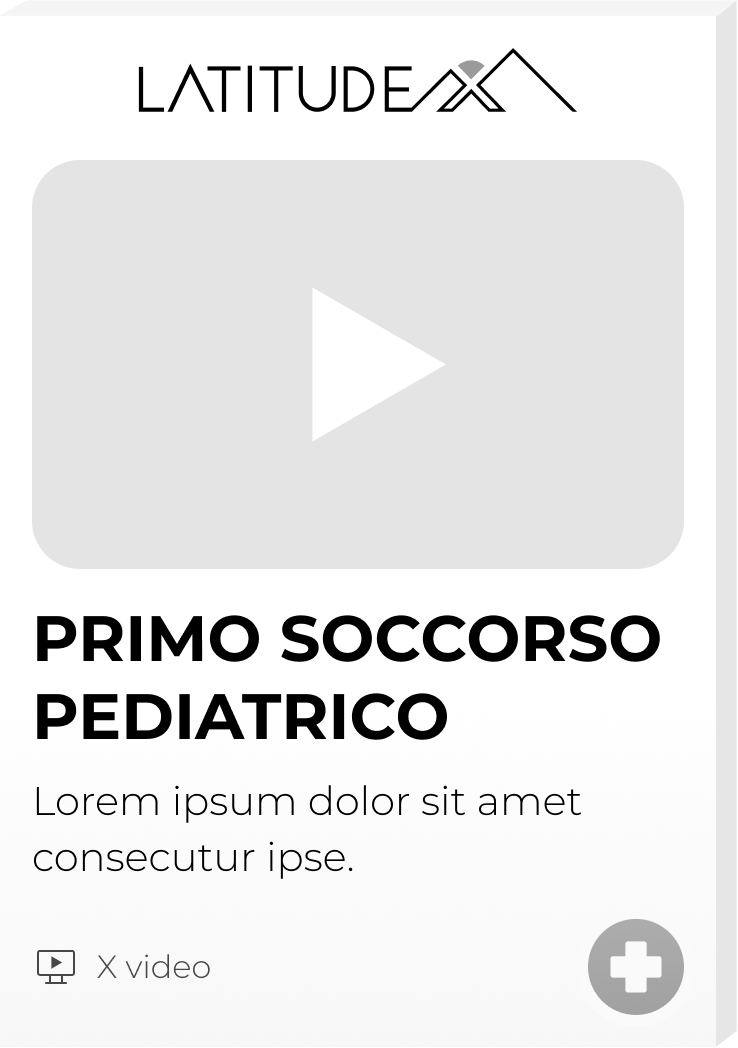
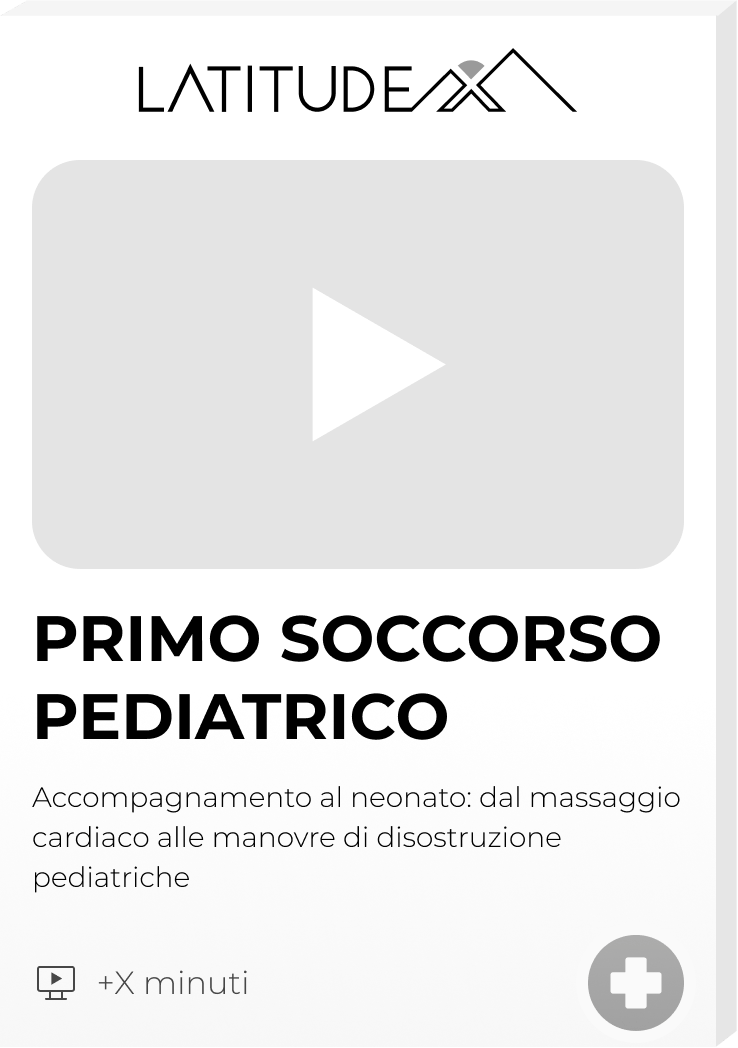
text updates

Changed region(s): [[0.0312, 0.7328, 0.9038, 0.855], [0.7791, 0.855, 0.935, 1.0], [0.0312, 0.916, 0.3428, 0.9466]]

diff --git a/app.config.ts b/app.config.ts
@@ -54,18 +54,10 @@ export default defineAppConfig({
     },
   ],
   corsiInPresenza: [
+
     {
       title: "Corso Addetti Primo Soccorso per Aziende",
-      description: "Lorem ipsum dolor sit amet, consectetur adipiscing elit, sed do eiusmod tempor incididunt ut labore et dolore magna aliqua.",
-      data: {
-        durata: "16 ore",
-        data: "Da definire",
-        destinatari: "Gruppo A"
-      }
-    },
-    {
-      title: "Corso Addetti Primo Soccorso per Aziende",
-      description: "Lorem ipsum dolor sit amet, consectetur adipiscing elit, sed do eiusmod tempor incididunt ut labore et dolore magna aliqua.",
+      description: "Primo Soccorso Aziendale secondo Decreto Ministeriale 388/03, rivolto alle aziende rientranti nei Gruppi B e C.",
       data: {
         durata: "12 ore",
         data: "Da definire",
@@ -73,17 +65,26 @@ export default defineAppConfig({
       }
     },
     {
-      title: "Corso BLSD Retraining  per Addetti Utilizzo Defibrillatore (DAE)",
-      description: "Lorem ipsum dolor sit amet, consectetur adipiscing elit, sed do eiusmod tempor incididunt ut labore et dolore magna aliqua.",
+      title: "Corso Addetti Primo Soccorso per Aziende",
+      description: "Primo Soccorso Aziendale secondo Decreto Ministeriale 388/03, rivolto alle aziende rientranti nel Gruppo A.",
       data: {
         durata: "16 ore",
+        data: "Da definire",
+        destinatari: "Gruppo A"
+      }
+    },
+    {
+      title: "Corso BLSD Retraining per Addetti Utilizzo Defibrillatore (DAE)",
+      description: "Il corso BLSD (Basic Life Support & Defibrillation) è un corso certificativo finalizzato all’addestramento dei partecipanti alla rianimazione cardiopolmonare e utilizzo del Defibrillatore Automatico Esterno.",
+      data: {
+        durata: "4 ore",
         data: "Da definire",
         destinatari: "Per tuttti"
       }
     },
     {
       title: "Corso Aggiornamento Primo Soccorso",
-      description: "Lorem ipsum dolor sit amet, consectetur adipiscing elit, sed do eiusmod tempor incididunt ut labore et dolore magna aliqua.",
+      description: "Primo Soccorso Aziendale secondo Decreto Ministeriale 388/03, rivolto alle aziende rientranti nel Gruppo A.",
       data: {
         durata: "6 ore",
         data: "Da definire",
@@ -92,9 +93,9 @@ export default defineAppConfig({
     },
     {
       title: "Corso Aggiornamento Primo Soccorso",
-      description: "Lorem ipsum dolor sit amet, consectetur adipiscing elit, sed do eiusmod tempor incididunt ut labore et dolore magna aliqua.",
+      description: "Primo Soccorso Aziendale secondo Decreto Ministeriale 388/03, rivolto alle aziende rientranti nei Gruppi B e C.",
       data: {
-        durata: "6 ore",
+        durata: "4 ore",
         data: "Da definire",
         destinatari: "Gruppo B e C"
       }
@@ -105,11 +106,12 @@ export default defineAppConfig({
       picture: "/giulia-gabani.jpg",
       fullName: "Giulia Gabani",
       points: [
-        "Medico Chirurgo abilitato. Laureata con il massimo dei voti presso l’Università degli Studi di Padova",
-        "Docente titolare dei corsi di formazione e aggiornamento di Primo Soccorso aziendale e gestione delle emergenze sanitarie",
-        "Discipline praticate: trekking, biking, arrampicata sportiva, alpinismo su roccia, canyoning e sci di fondo",
-        "Istruttrice BLSD e Soccorritrice in ambulanza per la Croce Rossa Italiana - SUEM 118",
-        "Content creator e video maker per passione ed esperienza.",
+        "Medico Chirurgo abilitato",
+        "Formazione specifica in Medicina Generale",
+        "Docente titolare dei corsi di formazione e aggiornamento di Primo Soccorso aziendale",
+        "Formatrice in ambito di approccio e gestione delle emergenze sanitarie",
+        "Istruttrice BLS-D qualificata",
+        "Soccorritrice in ambulanza per la Croce Rossa Italiana - SUEM 118",
       ],
       bio: "Lorem ipsum dolor sit amet, consectetur adipiscing elit, sed do eiusmod tempor incididunt ut labore et dolore magna aliqua. Ut enim ad minim veniam, quis nostrud exercitation ullamco laboris nisi ut aliquip ex ea commodo consequat. Duis aute irure dolor in reprehenderit in voluptate velit esse cillum dolore eu fugiat nulla pariatur. Excepteur sint occaecat cupidatat non proident, sunt in culpa qui officia deserunt mollit anim id est laborum."
     },
@@ -117,23 +119,22 @@ export default defineAppConfig({
       picture: "/francesco-maria-sauro.jpg",
       fullName: "Francesco Maria Sauro",
       points: [
-        "Logistic Coordinator and Managing Director per Miles Beyond.",
-        "Logistic Coordinator corsi CAVES e PANGAEA dell'Agenzia Spaziale Europea",
-        "Operatore del CNSAS (Corpo Nazionale del Soccorso Alpino e Speleologico)",
-        "Guida associata AssoGuide e Skipper",
-        "Istruttore BLSD e Soccorritore in ambulanza per la Croce Rossa Italiana - SUEM 118.",
-    ],
+        "Operatore del Soccorso Alpino e Speleologico del Veneto (CNSAS)",
+        "Co-docente tecnico dei corsi di formazione di Primo Soccorso aziendale",
+        "Istruttore BLS-D qualificato",
+        "Soccorritore in ambulanza per la Croce Rossa Italiana - SUEM 118",
+      ],
       bio: "Lorem ipsum dolor sit amet, consectetur adipiscing elit, sed do eiusmod tempor incididunt ut labore et dolore magna aliqua. Ut enim ad minim veniam, quis nostrud exercitation ullamco laboris nisi ut aliquip ex ea commodo consequat. Duis aute irure dolor in reprehenderit in voluptate velit esse cillum dolore eu fugiat nulla pariatur. Excepteur sint occaecat cupidatat non proident, sunt in culpa qui officia deserunt mollit anim id est laborum."
     },
     luca: {
       picture: "/luca-carenzo.jpg",
       fullName: "Luca Carenzo",
       points: [
-        "Lorem ipsum dolor sit amet.",
-        "Lorem ipsum dolor sit amet.",
-        "Lorem ipsum dolor sit amet.",
-        "Lorem ipsum dolor sit amet.",
-    ],
+        "Medico Chirurgo abilitato",
+        "Specializzato in Anestesia e Rianimazione",
+        "Formatore e istruttore di simulazione avanzata in ambito di Trauma Critical Care e Disaster Medicine",
+        "Diploma Europeo in Terapia Intensiva ed esperienza lavorativa di elisoccorso presso la London’s Air Ambulance",
+      ],
       bio: "Lorem ipsum dolor sit amet, consectetur adipiscing elit, sed do eiusmod tempor incididunt ut labore et dolore magna aliqua. Ut enim ad minim veniam, quis nostrud exercitation ullamco laboris nisi ut aliquip ex ea commodo consequat. Duis aute irure dolor in reprehenderit in voluptate velit esse cillum dolore eu fugiat nulla pariatur. Excepteur sint occaecat cupidatat non proident, sunt in culpa qui officia deserunt mollit anim id est laborum."
     }
   },
@@ -148,28 +149,42 @@ export default defineAppConfig({
     {
       cover: "/recensione-2.jpg",
       title: "«Ho evitato che mio figlio soffocasse!»",
-      description: "Lorem ipsum dolor sit amet, consectetur adipiscing elit, sed do eiusmod tempor incididunt ut labore et dolore magna aliqua. Ut enim ad minim veniam, quis nostrud exercitation ullamco laboris nisi ut aliquip ex ea commodo consequat.",
+      description: "È successo tutto molto velocemente. Eravamo a tavola e ho visto Giacomo che ha iniziato a diventare viola. Inizialmente mi ha preso il panico ma poi mi sono ricordata le manovre di disostruzione che mi avevate insegnato, allora l’ho preso in braccio e ho eseguito meccanicamente il protocollo di disostruzione. Non ho parole per esprimervi la mia gratitudine per avermi dato gli strumenti per agire e salvare mio figlio.",
       from: "Instagram",
       by: "Nome Cognome"
     },
     {
       cover: "/recensione-3.jpg",
-      title: "«Mi sento più forte accudendo mia madre»",
-      description: "Lorem ipsum dolor sit amet, consectetur adipiscing elit, sed do eiusmod tempor incididunt ut labore et dolore magna aliqua. Ut enim ad minim veniam, quis nostrud exercitation ullamco laboris nisi ut aliquip ex ea commodo consequat.",
+      title: "«Quando ti capita, non puoi rimanere a guardare, vuoi agire!»",
+      description: "Durante una passeggiata in montagna un componente del gruppo è scivolato dal sentiero in una zona per niente comoda e non riusciva più ad alzarsi. Non ho potuto fare molto dal punto di vista sanitario (abbiamo scoperta dopo che si era rotto il femore), se non gestire al meglio l’intervento, dalla chiamata dei soccorsi, al riscaldare il mio amico (avevo portato il telo termico per la prima volta), allo stargli vicino, al localizzarsi nel migliore dei modi (eravamo partiti ormai da 3 ore). E questo grazie ad aver seguito queste video lezioni.",
       from: "Instagram",
       by: "Nome Cognome"
     },
     {
       cover: "/recensione-4.jpg",
-      title: "«Lorem ipsum dolo sit amet, consecteutur»",
-      description: "Lorem ipsum dolor sit amet, consectetur adipiscing elit, sed do eiusmod tempor incididunt ut labore et dolore magna aliqua. Ut enim ad minim veniam, quis nostrud exercitation ullamco laboris nisi ut aliquip ex ea commodo consequat.",
+      title: "«Ho apprezzato tanto il taglio pratico di questo video corso!»",
+      description: "Avevo frequentato un corso di primo soccorso in azienda, mi era piaciuto ma sinceramente aveva un taglio eccessivamente teorico. Seguendo questo corso, invece, ho trovato la parte pratica molto interessante e utile veramente in ogni occasione della vita.",
       from: "Instagram",
       by: "Nome Cognome"
     },
     {
-      cover: "/recensione-4.jpg",
-      title: "«Lorem ipsum dolo sit amet, consecteutur»",
-      description: "Lorem ipsum dolor sit amet, consectetur adipiscing elit, sed do eiusmod tempor incididunt ut labore et dolore magna aliqua. Ut enim ad minim veniam, quis nostrud exercitation ullamco laboris nisi ut aliquip ex ea commodo consequat.",
+      cover: "/recensione-5.jpg",
+      title: "«Ora sono in grado di riconoscere tempestivamente i segni d’allarme!»",
+      description: "Qualche mese fa un mio collega ha iniziato a star male ma tutti, compreso lui, stavamo sottovalutando la situazione. Avendo fatto il corso da poco, mi sono ricordato, di alcuni sintomi importanti da valutare e alla fine ho preferito chiamare il 118. Il mio collega stava avendo un infarto, ma per fortuna è stato preso in tempo! Tanti segni e sintomi prima non li capivo o li ignoravo perché non ero in grado di riconoscerli.",
+      from: "Instagram",
+      by: "Nome Cognome"
+    },
+    {
+      cover: "/recensione-6.jpg",
+      title: "«Ho avuto tanta paura ma sapevo cosa fare»",
+      description: "Stavo rientrando a casa quando ho sentito urlare dai garage del mio condominio. C’era un mio condomino che si era tagliato parte del braccio con un ferro e stava già perdendo molto sangue. Sono riuscito a tamponare la ferita nel migliore dei modi, farlo stendere e chiamare immediatamente i soccorsi che, anche grazie al mio intervento, l’hanno salvato. Per fortuna non mi è mai capitato di dover intervenire, però ho voluto frequentare lo stesso il corso per sentirmi più sicura in caso dovessi averne necessità.",
+      from: "Instagram",
+      by: "Nome Cognome"
+    },
+    {
+      cover: "/recensione-7.jpg",
+      title: "«Quello che ho imparato posso applicarlo in ogni situazione»",
+      description: "Durante una passeggiata in montagna un componente del gruppo è scivolato dal sentiero in una zona per niente comoda e non riusciva più ad alzarsi. Non ho potuto fare molto dal punto di vista sanitario (abbiamo scoperta dopo che si era rotto il femore), se non gestire al meglio l’intervento, dalla chiamata dei soccorsi, al riscaldare il mio amico (avevo portato il telo termico per la prima volta), allo stargli vicino, al localizzarsi nel migliore dei modi (eravamo partiti ormai da 3 ore). E questo grazie ad aver seguito queste video lezioni.",
       from: "Instagram",
       by: "Nome Cognome"
     },
@@ -250,27 +265,47 @@ export default defineAppConfig({
   faq: [
     {
       header: "Quando saranno disponibi i video corsi?",
-      body: "Lorem ipsum dolor sit amet, consectetur adipiscing elit, sed do eiusmod tempor incididunt ut labore et dolore magna aliqua. Ut enim ad minim veniam, quis nostrud exercitation ullamco laboris nisi ut aliquip ex ea commodo consequat. Duis aute irure dolor in reprehenderit in voluptate velit esse cillum dolore eu fugiat nulla pariatur. Excepteur sint occaecat cupidatat non proident, sunt in culpa qui officia deserunt mollit anim id est laborum."
+      body: "I video corsi saranno disponibili da Febbraio 2024. Se sei interessato, prenota il tuo Corso online qui https://latitudex.academy/corso-primo-soccorso, senza impegno e gratuitamente, verrai avvisato appena saranno disponibili per te!"
     },
     {
-      header: "Potete rilasciare il certificato all'uso del BLS-D?",
-      body: "Lorem ipsum dolor sit amet, consectetur adipiscing elit, sed do eiusmod tempor incididunt ut labore et dolore magna aliqua. Ut enim ad minim veniam, quis nostrud exercitation ullamco laboris nisi ut aliquip ex ea commodo consequat. Duis aute irure dolor in reprehenderit in voluptate velit esse cillum dolore eu fugiat nulla pariatur. Excepteur sint occaecat cupidatat non proident, sunt in culpa qui officia deserunt mollit anim id est laborum."
+      header: "Come posso imparare a salvare la vita con questa guida online?",
+      body: "Nel Video Corso troverai più di 35 video-lezioni che tratteranno tutti i temi fondamentali del primo soccorso. Seguirai un percorso completo che ti insegnerà da zero tutte le manovre essenziali per prestare un efficace primo soccorso. Lezioni interattive e ricche di esempi pratici ti aspettano. Pronto a diventare un soccorritore?"
     },
     {
-      header: "Domanda",
-      body: "Lorem ipsum dolor sit amet, consectetur adipiscing elit, sed do eiusmod tempor incididunt ut labore et dolore magna aliqua. Ut enim ad minim veniam, quis nostrud exercitation ullamco laboris nisi ut aliquip ex ea commodo consequat. Duis aute irure dolor in reprehenderit in voluptate velit esse cillum dolore eu fugiat nulla pariatur. Excepteur sint occaecat cupidatat non proident, sunt in culpa qui officia deserunt mollit anim id est laborum."
+      header: "Quante volte posso guardare i video?",
+      body: "Una volta acquistato il Video CORSO potrai ri-guardarlo quante volte vorrai. Sarà tuo per sempre. Non dimenticare che sul sito di Latitude-X Academy continueranno ad essere pubblicati nuovi corsi aggiornati e altri approfondimenti. Dopo il primo acquisto entrerai a far parte della Community di Latitude-x Academy!"
     },
     {
-      header: "Domanda",
-      body: "Lorem ipsum dolor sit amet, consectetur adipiscing elit, sed do eiusmod tempor incididunt ut labore et dolore magna aliqua. Ut enim ad minim veniam, quis nostrud exercitation ullamco laboris nisi ut aliquip ex ea commodo consequat. Duis aute irure dolor in reprehenderit in voluptate velit esse cillum dolore eu fugiat nulla pariatur. Excepteur sint occaecat cupidatat non proident, sunt in culpa qui officia deserunt mollit anim id est laborum."
+      header: "Quanto dura il corso online?",
+      body: "Il Primo Soccorso BLS è diviso in 35 mini video che corrispondono a 35 singole lezioni della durata di circa 3/5 minuti ciascuna. Puoi interrompere il video quante volte vuoi e riprenderlo in qualunque momento."
     },
     {
-      header: "Domanda",
-      body: "Lorem ipsum dolor sit amet, consectetur adipiscing elit, sed do eiusmod tempor incididunt ut labore et dolore magna aliqua. Ut enim ad minim veniam, quis nostrud exercitation ullamco laboris nisi ut aliquip ex ea commodo consequat. Duis aute irure dolor in reprehenderit in voluptate velit esse cillum dolore eu fugiat nulla pariatur. Excepteur sint occaecat cupidatat non proident, sunt in culpa qui officia deserunt mollit anim id est laborum."
+      header: "Cosa contiene il video corso di Primo Soccorso BLS?",
+      body: "Il Corso di Primo Soccorso BLS segue un programma completo di lezioni teoriche e dimostrazioni pratiche simulate su persone reali per insegnarti ad affrontare tutte le più comuni situazioni di emergenza. Potrai rivedere le lezioni quante volte vorrai, e acquisire totale fiducia nelle manovre da eseguire. Più di 35 lezioni sempre disponibili per te online. Troverai tanti esempi di situazioni realmente accadute, che renderanno ancora più efficace l’apprendimento."
     },
     {
-      header: "Domanda",
-      body: "Lorem ipsum dolor sit amet, consectetur adipiscing elit, sed do eiusmod tempor incididunt ut labore et dolore magna aliqua. Ut enim ad minim veniam, quis nostrud exercitation ullamco laboris nisi ut aliquip ex ea commodo consequat. Duis aute irure dolor in reprehenderit in voluptate velit esse cillum dolore eu fugiat nulla pariatur. Excepteur sint occaecat cupidatat non proident, sunt in culpa qui officia deserunt mollit anim id est laborum."
+      header: "Verranno pubblicati altri video?",
+      body: "Sono in programmazione altri tre VIDEO Corsi online: il primo soccorso per Aziende, il primo soccorso per ambienti Outdoor e il primo soccorso Pediatrico. Sul sito di Latitude-x Academy trovi maggiori informazioni, ma sei hai qualche domanda non esitare a contattarci."
+    },
+    {
+      header: "Il corso BLSD per l’utilizzo del Defibrillatore, rilascia un attestato valido per legge?",
+      body: "Si! Acquistando il corso di BLS-D potrai richiedere, se ne avessi necessità, il rilascio del Certificato, oppure seguire il Video Corso ed imparare ad utilizzare il DAE correttamente. Quando uscirà il Corso online, verrà pubblicato un calendario dove sarà possibile prenotarsi in uno degli incontri programmati per ricevere il Certificato rilasciato da un Centro di Formazione accreditato al 118 regionale."
+    },
+    {
+      header: "Posso vederli da qualsiasi dispositivo?",
+      body: "Tutte le video-lezioni si troveranno su un’unica piattaforma semplice da usare. Tutti i video sono registrati e potrai vederli in differita dove e quando vuoi dal tuo PC/tablet/smartphone senza limitazioni."
+    },
+    {
+      header: "Posso passare da un argomento all’altro?",
+      body: "Ogni video-lezione all’interno di un Corso è indipendente dalle altre e questo ti consentirà di scegliere con che ordine seguire le lezioni o se riguardare una lezione specifica che scelti tu. Tuttavia ti consigliamo, la prima volta che seguirai il Corso, di seguire l’ordine che abbiamo dato noi alle lezioni"
+    },
+    {
+      header: "Il pagamento è una volta o è un abbonamento?",
+      body: "L'acquisto di ogni video-corso è singolo. Una volta acquistato il CORSO potrai rivederlo quante volte vorrai. Sarà tuo per sempre."
+    },
+    {
+      header: "Posso vedere i corsi anche se non ho internet?",
+      body: "Tutti i video sono registrati e potrai vederli in differita dove e quando vuoi dal tuo PC o tablet o smartphone senza limitazioni. Solamente l'accesso alla piattaforma richiede connessione internet."
     },
   ]
 })

diff --git a/pages/index.vue b/pages/index.vue
@@ -51,15 +51,8 @@
       <h3 class="text-xl md:text-3xl text-center">I nostri partner</h3>
       <SectionAppSponsor></SectionAppSponsor>
 
-      <div class="md:flex md:space-x-8 w-full mt-16">
-        <div class="md:w-1/2 mb-6" id="faq">
-          <h3 class="text-xl md:text-3xl mb-8">
-            <strong>FAQ</strong> <br />
-            <small class="text-sm">Le domande che ci fate più spesso</small>
-          </h3>
-          <BaseAccordion :elements="appConfig.faq"></BaseAccordion>
-        </div>
-        <div class="md:w-1/2 mb-6" id="contatti">
+      <div class="max-w-3xl m-auto mt-16 mb-6">
+        <div id="contatti">
           <SectionAppContact></SectionAppContact>
         </div>
       </div>

diff --git a/components/section/AppHero.vue b/components/section/AppHero.vue
@@ -11,7 +11,7 @@
       L'Accademia di Primo Soccorso
     </h1>
     <h2 class="mt-0 mx-auto text-gradient-primary text-xl md:text-2xl mb-6 max-w-[40rem]">
-      Unisciti alla prima scuola in Italia di Primo Soccorso. Per tutti, online e in presenza.
+      Unisciti alla Prima Scuola in Italia di Primo Soccorso. Per tutti, online e in presenza.
     </h2>
     <BaseLink :to="{ path: '/', hash: '#corsi-online' }" class="btn btn-lg !no-underline">
       Vedi tutti i corsi
